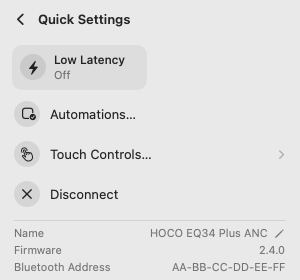
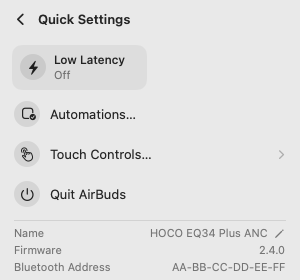
Disconnect button on the main page, Quit in Quick Settings; version 0.2.2
The top-right power button quit the app, which is easy to hit by
mistake. It's now a Disconnect button (greyed out when nothing is
connected), and Quick Settings has a Quit AirBuds row where Disconnect
was. Quit is also still in the right-click menu, for when no earbuds are
connected. Screenshots regenerated.

Changed region(s): [[0.15, 0.6571, 0.42, 0.7143], [0.06, 0.6571, 0.12, 0.7143]]

diff --git a/Sources/AirBuds/Views/QuickSettingsView.swift b/Sources/AirBuds/Views/QuickSettingsView.swift
@@ -1,5 +1,5 @@
 // Quick Settings page: a Low Latency tile, Automations, Touch Controls,
-// Disconnect, and device info with the earbuds' name (editable here).
+// Quit, and device info with the earbuds' name (editable here).
 
 import AirBudsKit
 import SwiftUI
@@ -37,15 +37,15 @@ struct QuickSettingsView: View {
                 }
             }
 
-            Button { device.disconnect() } label: {
+            Button { NSApp.terminate(nil) } label: {
                 HStack(spacing: 10) {
-                    IconBadge(symbol: "xmark")
-                    Text("Disconnect").font(.system(size: 13))
+                    IconBadge(symbol: "power")
+                    Text("Quit AirBuds").font(.system(size: 13))
                     Spacer()
                 }
             }
             .buttonStyle(HoverRowStyle())
-            .help("Disconnect the earbuds from this Mac")
+            .help("Quit AirBuds")
 
             DeviceInfo()
         }

diff --git a/Sources/AirBuds/Views/MainView.swift b/Sources/AirBuds/Views/MainView.swift
@@ -54,7 +54,8 @@ struct MainView: View {
                 .disabled(!state.connected || state.capabilities.eqPresets.isEmpty)
             HeaderButton(symbol: "gearshape", help: "Quick Settings") { nav.page = .quickSettings }
                 .disabled(!state.connected)
-            HeaderButton(symbol: "power", help: "Quit AirBuds") { NSApp.terminate(nil) }
+            HeaderButton(symbol: "antenna.radiowaves.left.and.right.slash", help: "Disconnect") { device.disconnect() }
+                .disabled(!state.connected)
         }
         .padding(.horizontal, 14)
         .padding(.vertical, 6)

diff --git a/README.md b/README.md
@@ -85,11 +85,11 @@ off from the right-click menu.
 
 | | |
 | --- | --- |
-| <img src="docs/screenshots/main-light.png" width="300" alt="Main panel"> | **Main panel**<br>Battery for each bud and the case (shown when the earbuds report it), and how long until the first bud runs out. Click a noise mode to switch.<br><br>Buttons at the top right: **Equalizer**, **Quick Settings** and **Quit**. |
+| <img src="docs/screenshots/main-light.png" width="300" alt="Main panel"> | **Main panel**<br>Battery for each bud and the case (shown when the earbuds report it), and how long until the first bud runs out. Click a noise mode to switch.<br><br>Buttons at the top right: **Equalizer**, **Quick Settings** and **Disconnect**. |
 | <img src="docs/screenshots/battery-light.png" width="300" alt="Battery page with a chart of this session"> | **Battery**<br>Click the battery row. The chart shows each bud's level since you started listening; hover it for the exact reading. Below it, time left for each bud. |
 | <img src="docs/screenshots/eq-custom-light.png" width="300" alt="Equalizer with Custom selected and ten band sliders"> | **Equalizer**<br>Click a preset to apply it, or **Custom** to shape the sound yourself: drag each of the 10 bands (31 Hz to 16 kHz) up or down by up to 8 dB. |
 | <img src="docs/screenshots/touch-light.png" width="300" alt="Touch Controls"> | **Touch Controls**<br>From Quick Settings. Pick what single, double and triple tap do on each bud: play/pause, next or previous track, volume, calls, or switching the noise mode. Saved on the earbuds. |
-| <img src="docs/screenshots/quick-light.png" width="300" alt="Quick Settings"> | **Quick Settings**<br>Turn **Low Latency** on or off, open **Automations**, **Disconnect** the earbuds, and see the firmware version and Bluetooth address. Click the pencil next to the name to **rename** them. |
+| <img src="docs/screenshots/quick-light.png" width="300" alt="Quick Settings"> | **Quick Settings**<br>Turn **Low Latency** on or off, open **Automations**, **Quit** AirBuds, and see the firmware version and Bluetooth address. Click the pencil next to the name to **rename** them. |
 | <img src="docs/screenshots/disconnected-light.png" width="300" alt="Not connected, with paired earbuds and a Connect button"> | **Not connected**<br>Your paired Hoco earbuds are listed. Click one to **connect** it to this Mac. |
 
 **Right-click the menu bar icon** for:

diff --git a/docs/ROADMAP.md b/docs/ROADMAP.md
@@ -29,7 +29,7 @@ All three shipped. See the README for how to use them.
 | --- | --- | --- |
 | 7 | ✅ **Rename your earbuds** | Pencil next to the name in Quick Settings. ADV attribute `01` through `C0`, up to 20 bytes; the EQ34 Plus ANC accepts it (result 0) and reads it back. Other devices see it after the earbuds restart. Renamed earbuds are remembered by address. |
 | 8 | ✅ **Auto-update with Sparkle** | Daily checks and Check for Updates…; releases publish an EdDSA-signed `appcast.xml`. Needs the `SPARKLE_PRIVATE_KEY` repository secret (see README → Releasing). |
-| 9 | ✅ **Connect / disconnect button** | Paired earbuds with a Connect button when none are connected, Disconnect in Quick Settings, and `airbuds://connect` / `disconnect`. |
+| 9 | ✅ **Connect / disconnect button** | Paired earbuds with a Connect button when none are connected, a Disconnect button at the top of the panel, and `airbuds://connect` / `disconnect`. |
 
 ## Bigger: reverse engineering: done (two of four)
 
